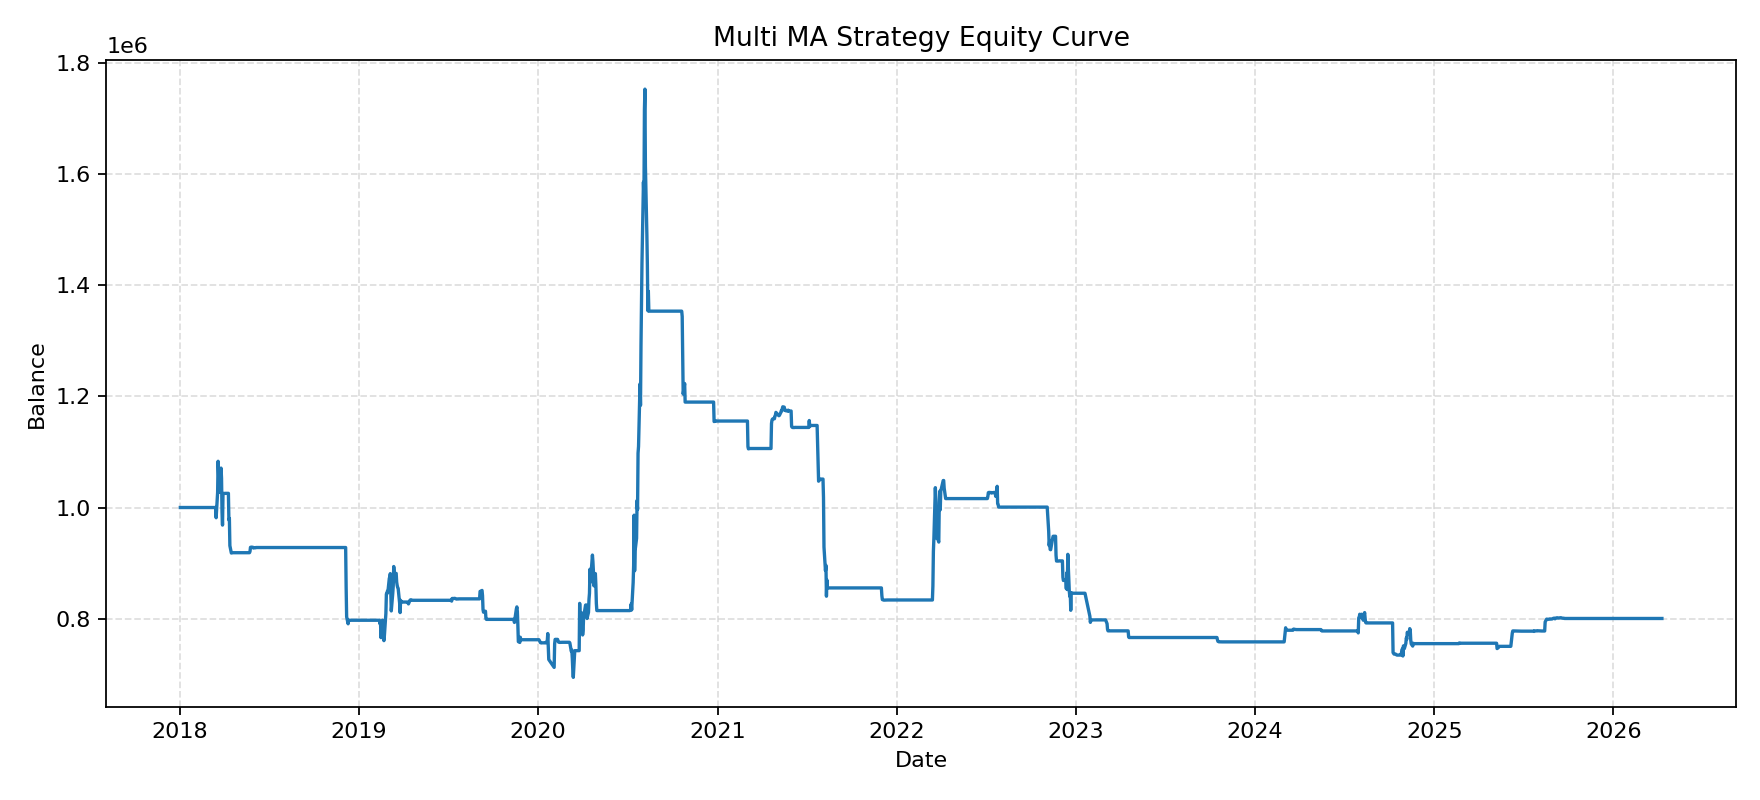
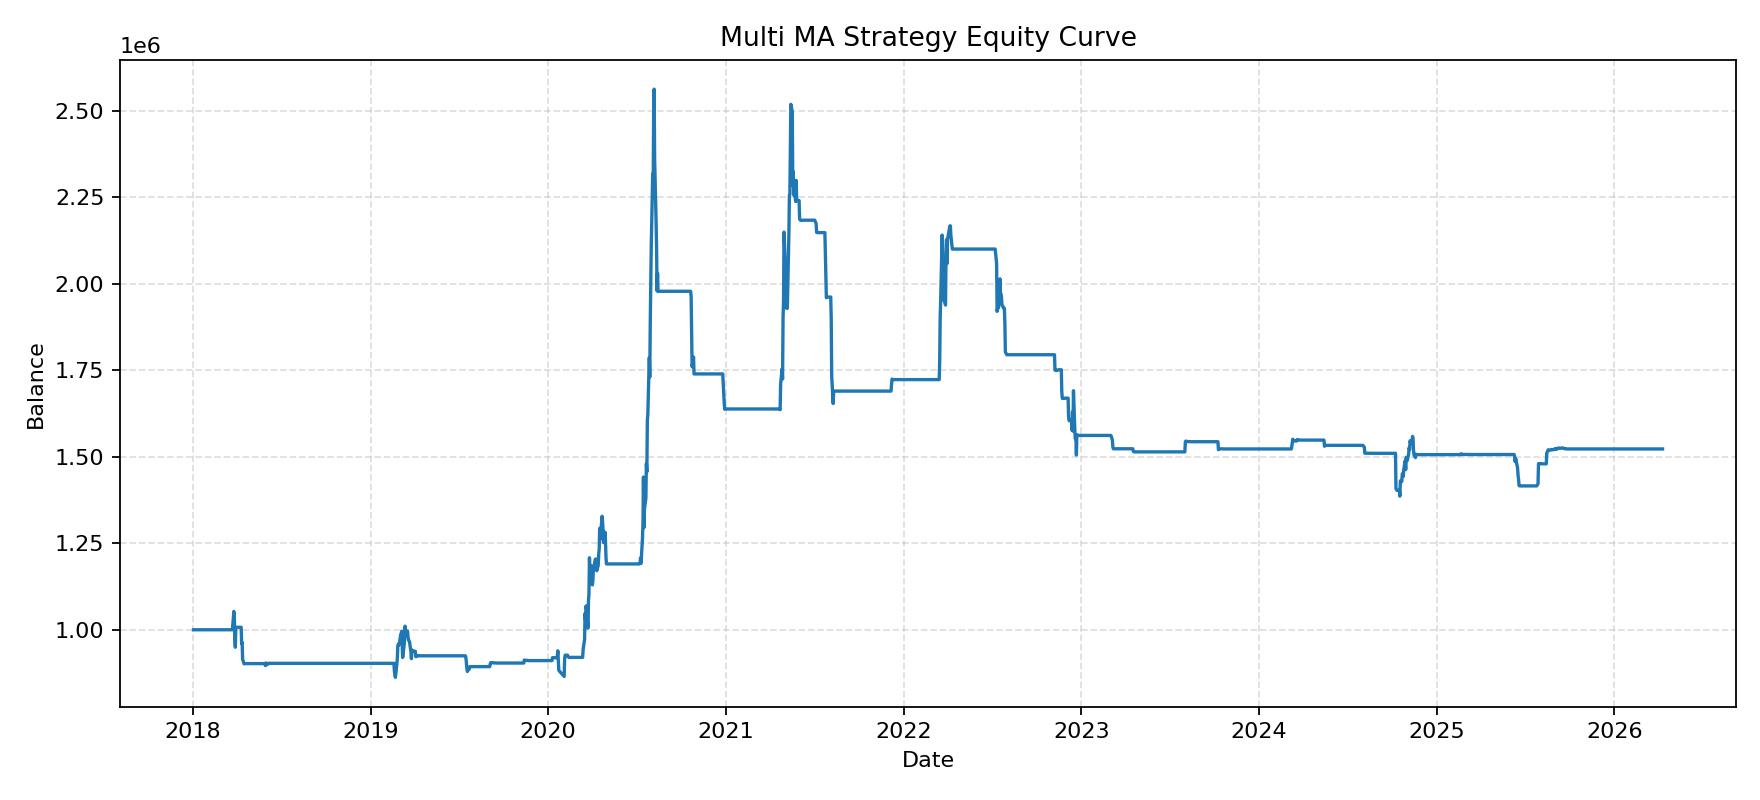
feat: V0.2 add stop-loss and ADX trend filter
- Add fixed 8% stop-loss per position, T+1 execution
- Add ADX(14) trend filter, block BUY when ADX < 20
- Replace MA struggle check with ADX for trend validation
- Track entry price via on_trade callback
- Stop-loss overrides any pending order (highest priority)
- ADX filter only affects BUY signals, sells remain unaffected

diff --git a/vnpy/strategies/multi_ma_strategy/strategy.py b/vnpy/strategies/multi_ma_strategy/strategy.py
@@ -19,6 +19,10 @@
 
 from vnpy.trader.object import BarData, TradeData
 from vnpy.trader.utility import round_to
+from vnpy.trader.constant import Direction
+
+import numpy as np
+import talib
 
 from vnpy.alpha import AlphaStrategy
 
@@ -35,6 +39,9 @@ class MultiMaStrategy(AlphaStrategy):
     price_add: float = 0.05               # 下单价格偏移
     use_next_day: bool = True             # T+1 交易模式
     slippage: float = 0.001               # 滑点比例，默认 0.1%
+    stop_loss_rate: float = 0.08          # 止损比例，默认 8%
+    adx_period: int = 14                  # ADX 计算周期
+    adx_threshold: float = 20.0           # ADX 趋势强度阈值
 
     def on_init(self) -> None:
         """策略初始化"""
@@ -45,15 +52,23 @@ class MultiMaStrategy(AlphaStrategy):
         self.bullish_history: list[bool] = []
         self.bearish_history: list[bool] = []
         self.pending_order: dict | None = None  # T 日信号，T+1 日执行
+        self.buy_price: float = 0.0             # 持仓入场价（止损基准）
+        self.adx_value: float = 0.0             # 当前 ADX 值
 
         self.write_log("多均线择时策略初始化")
         self.write_log(f"均线周期: {self.ma_periods}")
         self.write_log(f"T+1 模式: {self.use_next_day}, 滑点: {self.slippage*100:.2f}%")
+        self.write_log(f"止损: {self.stop_loss_rate*100:.2f}%, ADX({self.adx_period}) 阈值: {self.adx_threshold}")
 
     def on_trade(self, trade: TradeData) -> None:
-        """成交回调"""
+        """成交回调 -- 记录入场价用于止损"""
         pos: float = self.get_pos(trade.vt_symbol)
         self.write_log(f"成交: {trade.vt_symbol}, 方向={trade.direction.value}, 价格={trade.price}, 数量={trade.volume}, 持仓={pos}")
+
+        if trade.direction == Direction.LONG:
+            self.buy_price = trade.price
+        elif pos == 0:
+            self.buy_price = 0.0
 
     def on_bars(self, bars: dict[str, BarData]) -> None:
         """K 线回调"""
@@ -73,46 +88,58 @@ class MultiMaStrategy(AlphaStrategy):
         # 2. 更新均线（用今天的收盘价计算）
         self._update_ma_values(vt_symbol)
 
-        # 3. 判断今天信号（写入 pending_order，次日执行）
+        # 3. 计算 ADX（用于趋势过滤）
+        self._update_adx(vt_symbol)
+
+        # 4. 判断今天信号（写入 pending_order，次日执行）
         if not self.use_next_day:
-            # 非 T+1 模式：直接执行
             self._execute_signals(bars)
-        else:
-            # T+1 模式：缓存信号到次日
-            if len(self.bullish_history) < 2:
-                self.bullish_history.append(self._is_bullish())
-                self.bearish_history.append(self._is_bearish())
+            return
+
+        # T+1 模式：缓存信号到次日
+        if len(self.bullish_history) < 2:
+            self.bullish_history.append(self._is_bullish())
+            self.bearish_history.append(self._is_bearish())
+            return
+        if any(len(self.ma_history[p]) < 3 for p in [5, 10, 20]):
+            return
+
+        is_bull = self._is_bullish()
+        is_bear = self._is_bearish()
+        self.bullish_history.append(is_bull)
+        self.bearish_history.append(is_bear)
+
+        current_pos: float = self.get_pos(vt_symbol)
+
+        # ========== 止损检查（最高优先级，覆盖现有 pending_order） ==========
+        if self._check_stop_loss(current_pos, bar):
+            return
+
+        # 已有待执行订单，不覆盖
+        if self.pending_order:
+            return
+
+        # ---------- 多头后死叉 → 卖出 ----------
+        if current_pos > 0 and self._is_cross_down():
+            self._set_pending_sell_order(bar, reason="死叉")
+
+        # ---------- 空头后金叉 → 买入（ADX 过滤） ----------
+        elif current_pos == 0 and self._is_cross_up():
+            if not self._adx_allow_buy():
+                self.write_log(f"[过滤] 金叉信号被 ADX 过滤 (ADX={self.adx_value:.1f})")
                 return
-            if any(len(self.ma_history[p]) < 3 for p in [5, 10, 20]):
+            self._set_pending_buy_order(bar, reason="金叉")
+
+        # ---------- 多头排列 → 买入（ADX 过滤） ----------
+        elif current_pos == 0 and is_bull:
+            if not self._adx_allow_buy():
+                self.write_log(f"[过滤] 多头排列信号被 ADX 过滤 (ADX={self.adx_value:.1f})")
                 return
+            self._set_pending_buy_order(bar, reason="多头排列")
 
-            is_bull = self._is_bullish()
-            is_bear = self._is_bearish()
-            self.bullish_history.append(is_bull)
-            self.bearish_history.append(is_bear)
-
-            if self.pending_order:
-                return  # 已有待执行订单，不覆盖
-
-            current_pos: float = self.get_pos(vt_symbol)
-
-            # ---------- 多头后死叉 → 卖出 ----------
-            if current_pos > 0 and self._is_cross_down():
-                self._set_pending_sell_order(bar, reason="死叉")
-
-            # ---------- 空头后金叉 → 买入 ----------
-            elif current_pos == 0 and self._is_cross_up():
-                self._set_pending_buy_order(bar, reason="金叉")
-
-            # ---------- 多头排列 → 买入 ----------
-            elif current_pos == 0 and is_bull:
-                if self._is_struggle():
-                    return
-                self._set_pending_buy_order(bar, reason="多头排列")
-
-            # ---------- 空头排列 → 卖出 ----------
-            elif current_pos > 0 and is_bear:
-                self._set_pending_sell_order(bar, reason="空头排列")
+        # ---------- 空头排列 → 卖出 ----------
+        elif current_pos > 0 and is_bear:
+            self._set_pending_sell_order(bar, reason="空头排列")
 
     # ==================== 信号判断 ====================
 
@@ -148,12 +175,46 @@ class MultiMaStrategy(AlphaStrategy):
         return was_bearish and cross
 
     def _is_struggle(self) -> bool:
+        """判断均线纠缠（V0.2 已弃用，保留以兼容旧配置）"""
         if len(self.ma_history[30]) < 1:
             return False
         diff_10_20 = abs(self._get_ma(10) - self._get_ma(20)) / self._get_ma(20)
         diff_20_30 = abs(self._get_ma(20) - self._get_ma(30)) / self._get_ma(30)
         return (diff_10_20 < self.struggle_threshold_10_20 or
                 diff_20_30 < self.struggle_threshold_20_30)
+
+    def _update_adx(self, vt_symbol: str) -> None:
+        """计算当前 ADX 值"""
+        n = self.adx_period
+        history = self.get_history_bars(vt_symbol, 2 * n)
+        if len(history) < 2 * n - 1:
+            self.adx_value = 0.0
+            return
+
+        high = np.array([b.high_price for b in history])
+        low = np.array([b.low_price for b in history])
+        close = np.array([b.close_price for b in history])
+
+        adx_array = talib.ADX(high, low, close, n)
+        self.adx_value = float(adx_array[-1])
+
+    def _check_stop_loss(self, current_pos: float, bar: BarData) -> bool:
+        """止损检查。触发时设置 pending sell 并返回 True。
+
+        优先级最高：即使已有 pending buy 也会被覆盖。
+        """
+        if current_pos > 0 and self.buy_price > 0:
+            stop_price = self.buy_price * (1 - self.stop_loss_rate)
+            if bar.close_price <= stop_price:
+                self._set_pending_sell_order(bar, reason="止损")
+                return True
+        return False
+
+    def _adx_allow_buy(self) -> bool:
+        """ADX 趋势过滤：低于阈值时不允许买入"""
+        if self.adx_value == 0.0:
+            return True  # 数据不足时放行
+        return self.adx_value >= self.adx_threshold
 
     # ==================== 均线计算 ====================
 
@@ -242,13 +303,24 @@ class MultiMaStrategy(AlphaStrategy):
 
         current_pos: float = self.get_pos(vt_symbol)
 
+        # 止损检查（非 T+1 模式直接执行）
+        if current_pos > 0 and self.buy_price > 0:
+            stop_price = self.buy_price * (1 - self.stop_loss_rate)
+            if bar.close_price <= stop_price:
+                self.set_target(vt_symbol, 0)
+                self.write_log(f"止损 清仓: 入场={self.buy_price:.2f}, 收盘={bar.close_price:.2f}")
+                self.execute_trading(bars, price_add=self.price_add)
+                return
+
         if current_pos > 0 and self._is_cross_down():
             self.set_target(vt_symbol, 0)
             self.write_log("死叉 清仓")
         elif current_pos == 0 and self._is_cross_up():
+            if not self._adx_allow_buy():
+                return
             self._set_buy_target(bar, reason="金叉")
         elif current_pos == 0 and is_bull:
-            if self._is_struggle():
+            if not self._adx_allow_buy():
                 return
             self._set_buy_target(bar, reason="多头排列")
         elif current_pos > 0 and is_bear:

diff --git a/examples/multi_ma_backtest/config.py b/examples/multi_ma_backtest/config.py
@@ -39,4 +39,8 @@ STRATEGY_PARAMS: dict = {
     "struggle_threshold_20_30": 0.002,
     "cash_ratio": 0.99,
     "price_add": 0.05,
+    # V0.2 新增
+    "stop_loss_rate": 0.08,
+    "adx_period": 14,
+    "adx_threshold": 20.0,
 }
